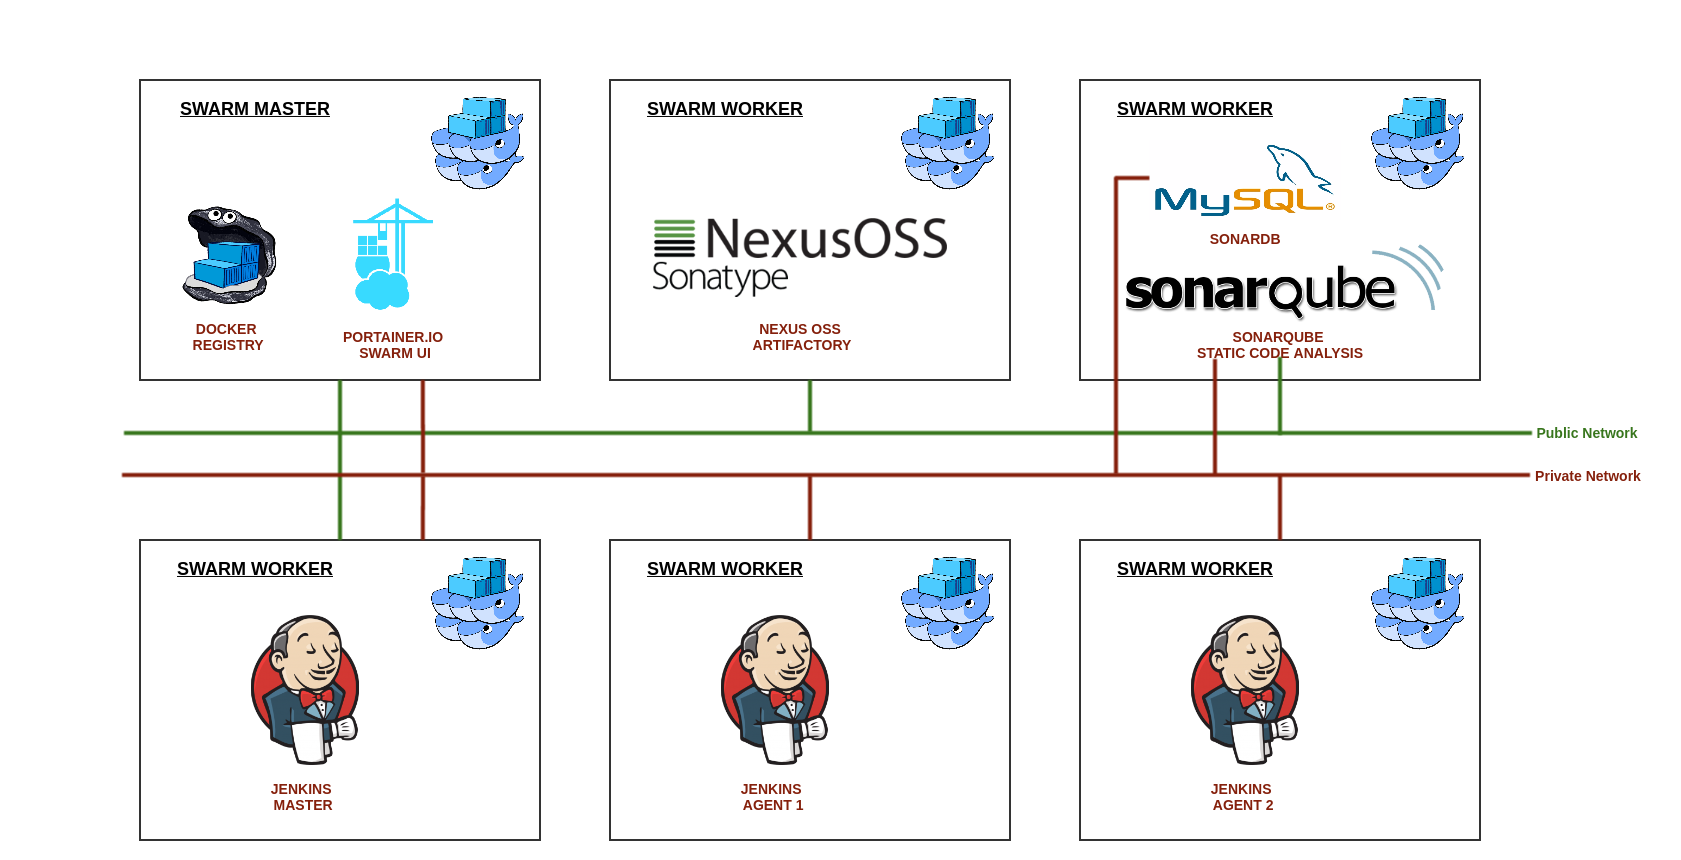
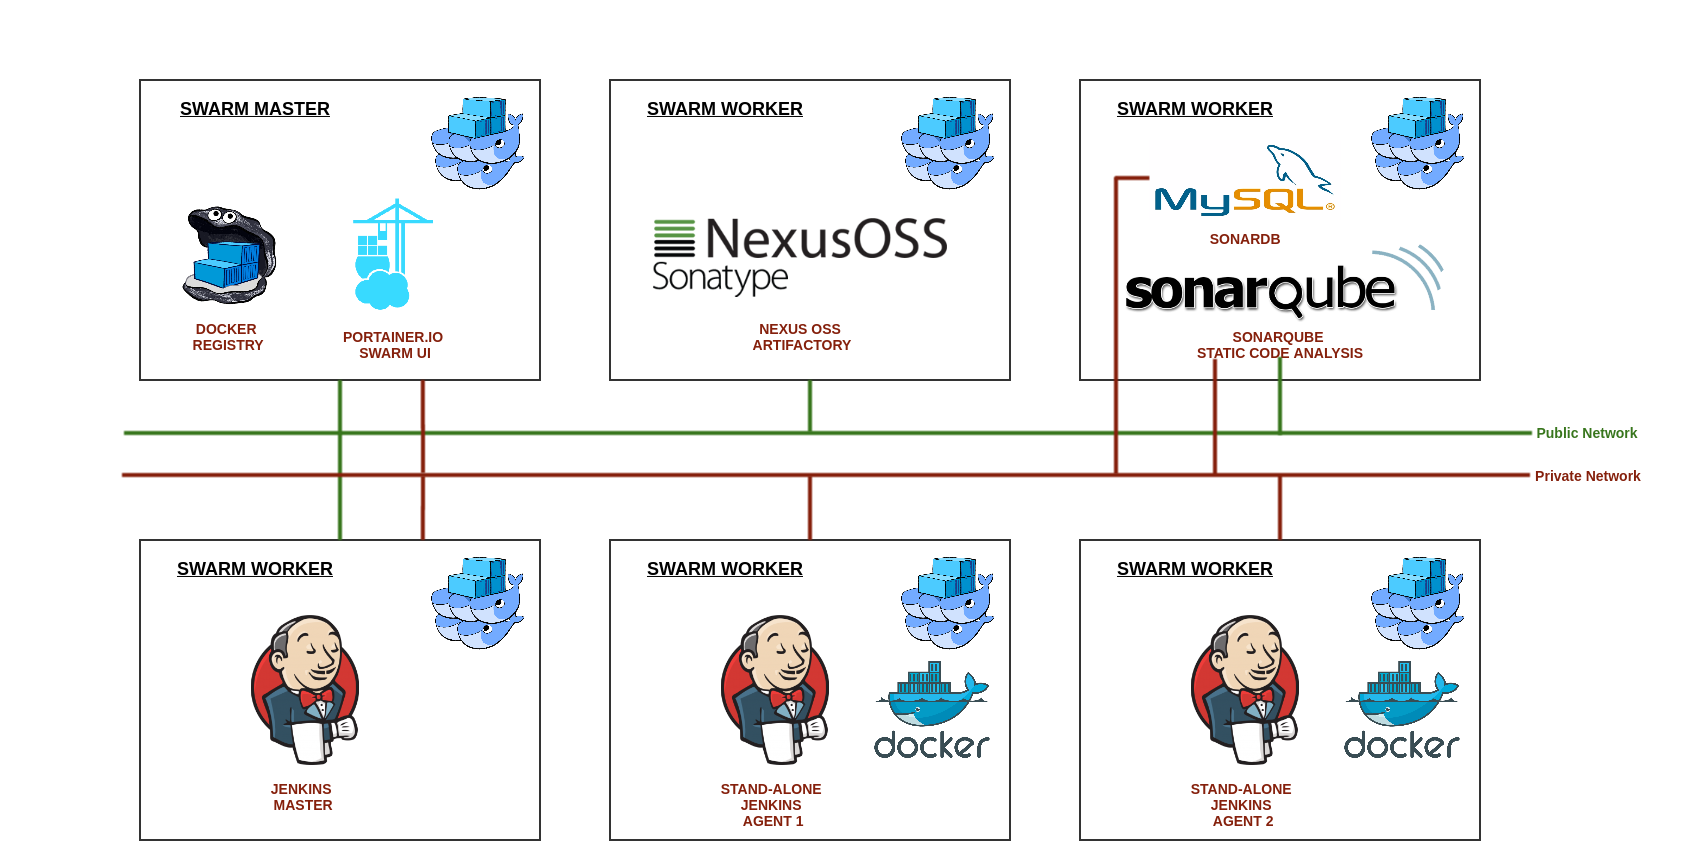
Detaching Jenkins Agents from stack and connecting them to cluster network

diff --git a/README.md b/README.md
@@ -106,11 +106,7 @@ We provide and automated Swarm Cluster procedure, that creates swarm nodes via d
 
 For Local Swarm cluster here a design picture.
 
-<<<<<<< HEAD
 <p align="center" style="width: 100%"><img  width="841" height="430" src="https://github.com/hellgate75/doker-cdstack/raw/master/images/design1.png" /></p>
-=======
-<p aling="center" style="width: 100%"><img  width="1681" height="860" src="https://github.com/hellgate75/doker-cdstack/raw/master/images/design1.png" /></p>
->>>>>>> parent of b5585df... Update README.md
 
 Access to Swarm node management features is behalf bash shell script [/swarm/manage-swarm-env.sh](https://github.com/hellgate75/doker-cdstack/tree/master/swarm/manage-swarm-env.sh)
 
@@ -148,6 +144,18 @@ If you use cluster performances limitation script to create the cluster, you hav
 
 
 Unique available environment at the moment is : `local`
+
+
+### Real Continuous Delivery Swarm environment ###
+
+In a real continuous deivery environment, DevOps people should use network drivers to connect clusters. Most effective one is WaveNet. This plugin gives you all together : inter-cluster connectivity, TLS connection intransit encryption and internal mini-dns service. It is more secure than any DMZ network, and it lives only in docker namespace where this network is created.
+
+[WaveNet Web Site](https://www.weave.works/docs/net/latest/overview) and here [docker installation instructions](https://www.weave.works/docs/net/latest/install/plugin/plugin-v2/#installation)
+
+Here a sample effective design, just with one deployment connection (eg. It covers some app groups in staging environment).
+
+<p aling="center" style="width: 100%"><img  width="841" height="614" src="https://github.com/hellgate75/doker-cdstack/raw/master/images/design2.png" /></p>
+
 
 
 ### License ###
